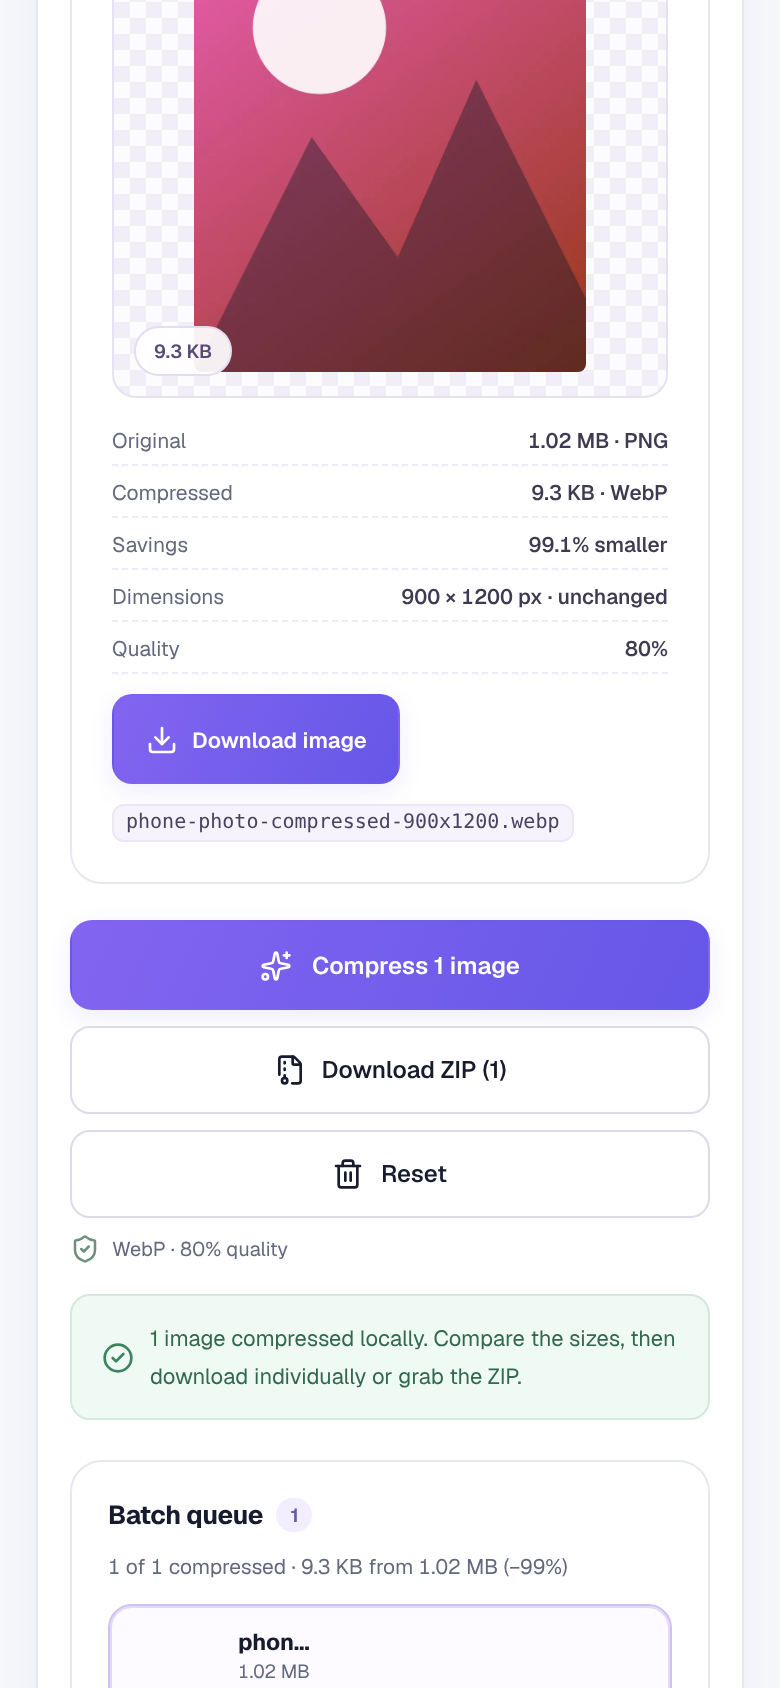
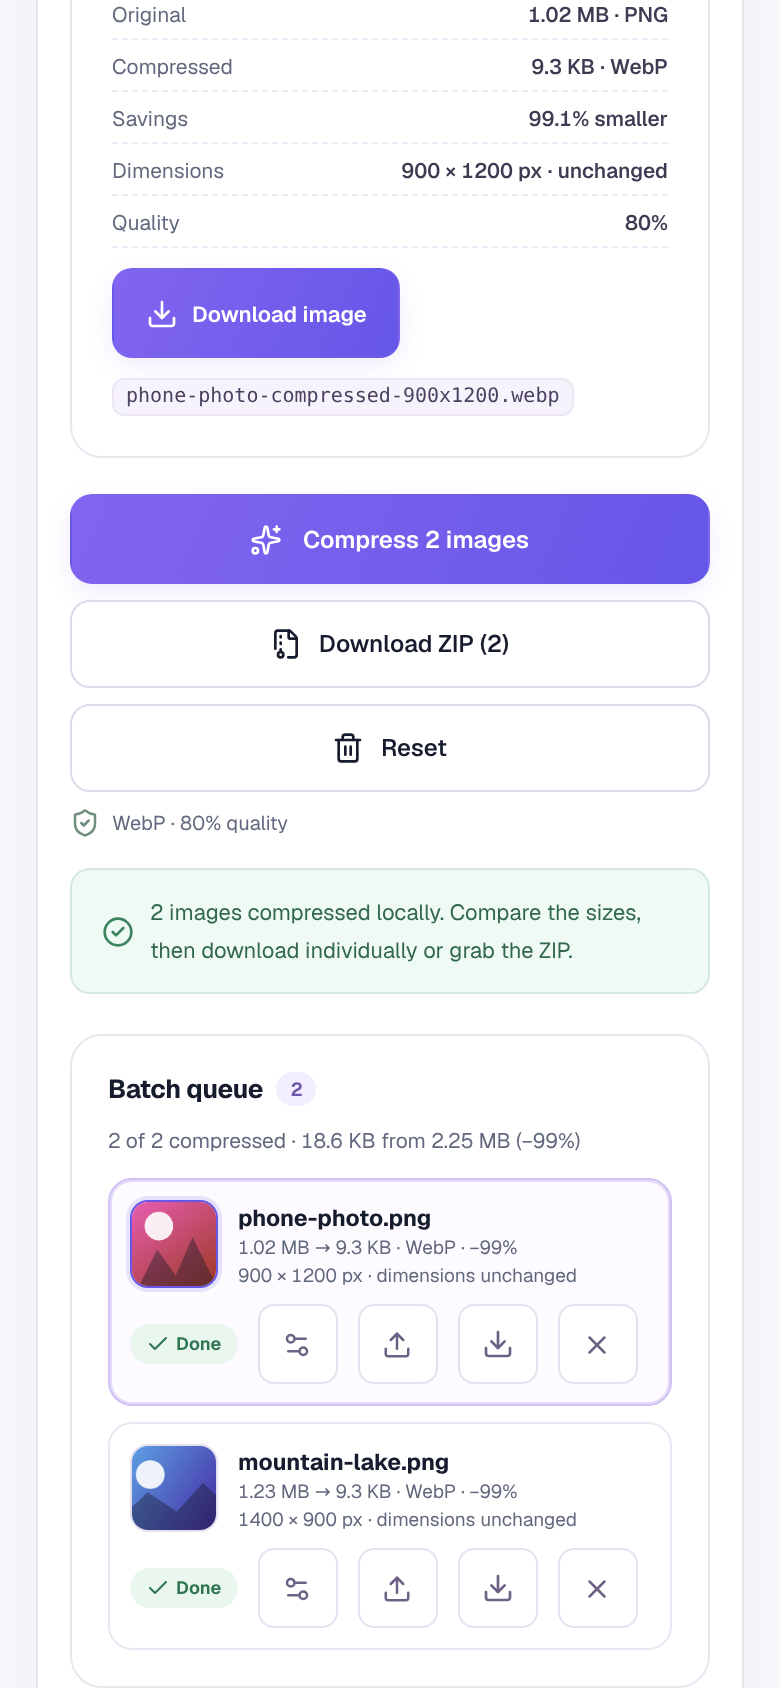
fix(image-compressor): keep mobile file names readable in the batch queue
Mobile rows squeezed the name to "phon...". Give the body a 160 px floor so
the status pill and action icons wrap onto their own line, allow a two-line
name, and add a 320 px screenshot. Verified at 320/390 px with no overflow.

diff --git a/app/globals.css b/app/globals.css
@@ -4222,6 +4222,20 @@ noscript .status {
   }
   .compressor-item-main {
     flex-wrap: wrap;
+    row-gap: 8px;
+  }
+  /* Keep the file name readable: the body holds 160 px, so the status pill and
+     the action icons wrap onto their own line instead of squeezing it. */
+  .compressor-item-body {
+    flex: 1 0 160px;
+  }
+  .compressor-item-body strong {
+    white-space: normal;
+    overflow-wrap: anywhere;
+    display: -webkit-box;
+    -webkit-line-clamp: 2;
+    -webkit-box-orient: vertical;
+    line-height: 1.35;
   }
   .compressor-compare {
     grid-template-columns: 1fr;

diff --git a/docs/FEATURE_IMAGE_COMPRESSOR.md b/docs/FEATURE_IMAGE_COMPRESSOR.md
@@ -110,7 +110,8 @@ playwright chromium  ✅ 160 passed (2.7 m) across all specs, including
                         before/after views, stats accuracy, progress/Stop/Retry,
                         axe + accessible names, JSON-LD, large 3,600×2,400 image,
                         mobile touch flow, mobile target flow)
-screenshots          docs/verification/image-compressor-*.png
+screenshots          docs/verification/image-compressor-{empty,settings,compare,target,full}-1440.png
+                     docs/verification/image-compressor-mobile-{390,full-390,320}.png
 ```
 
 Vitest coverage for this tool:
